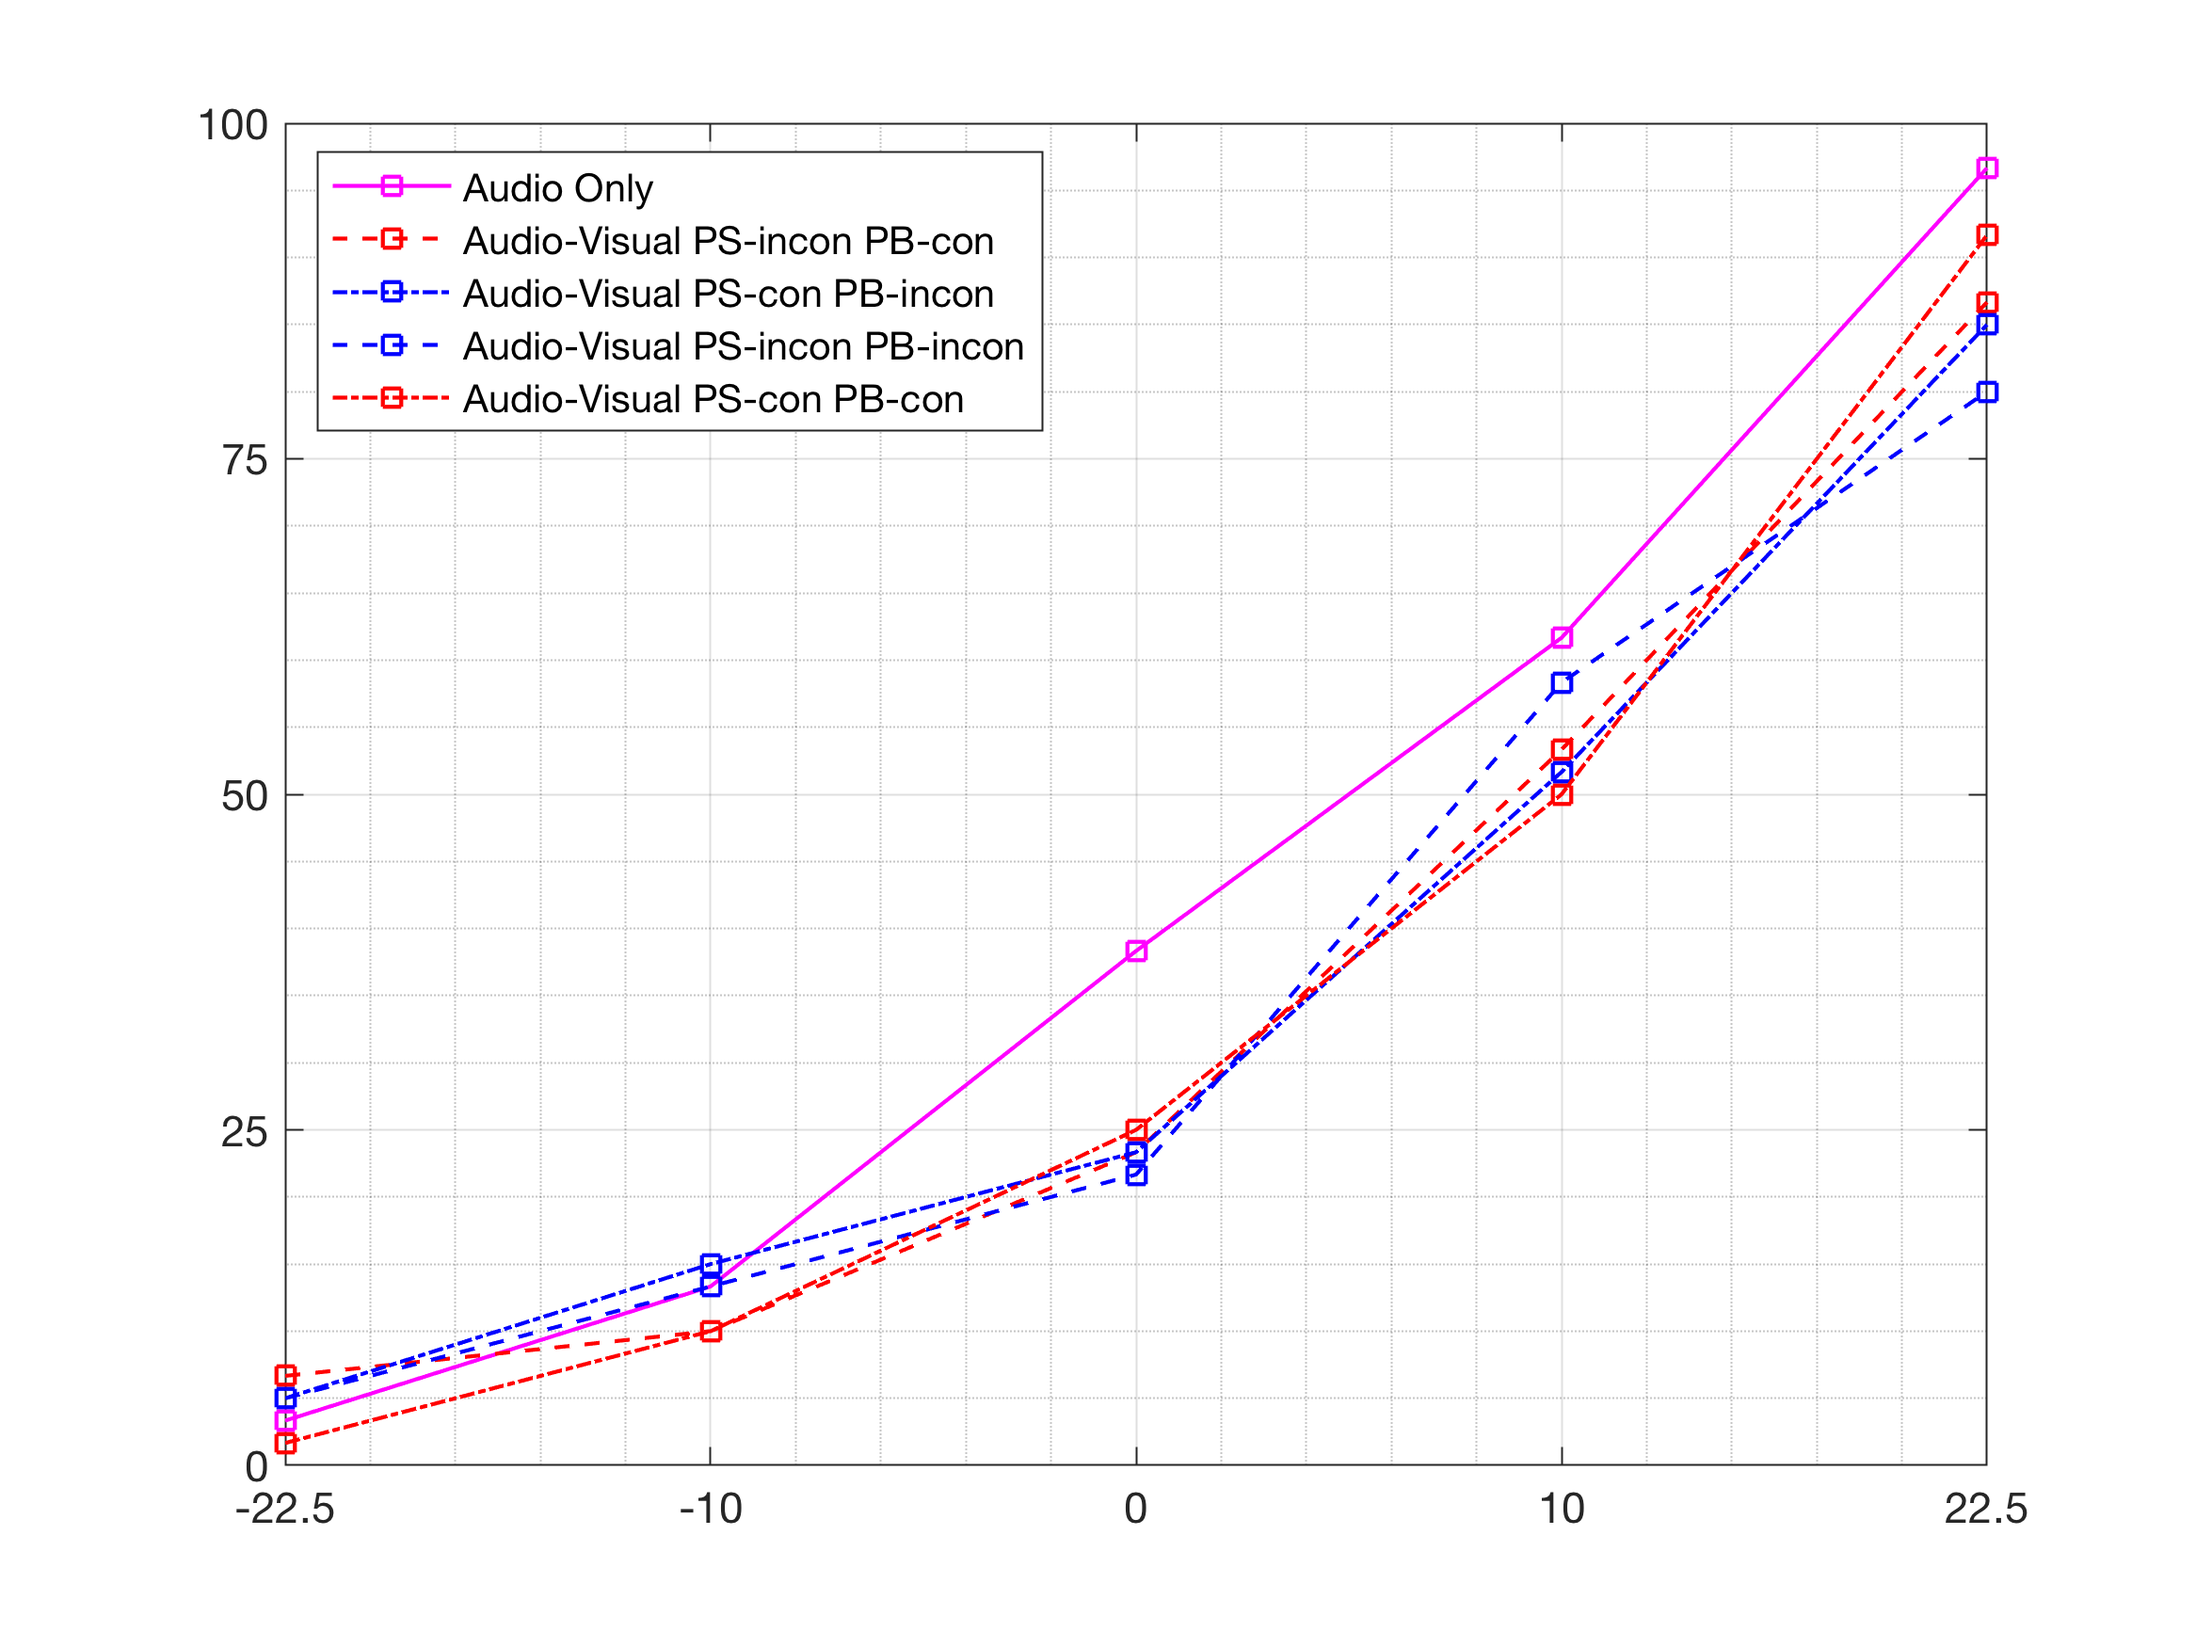
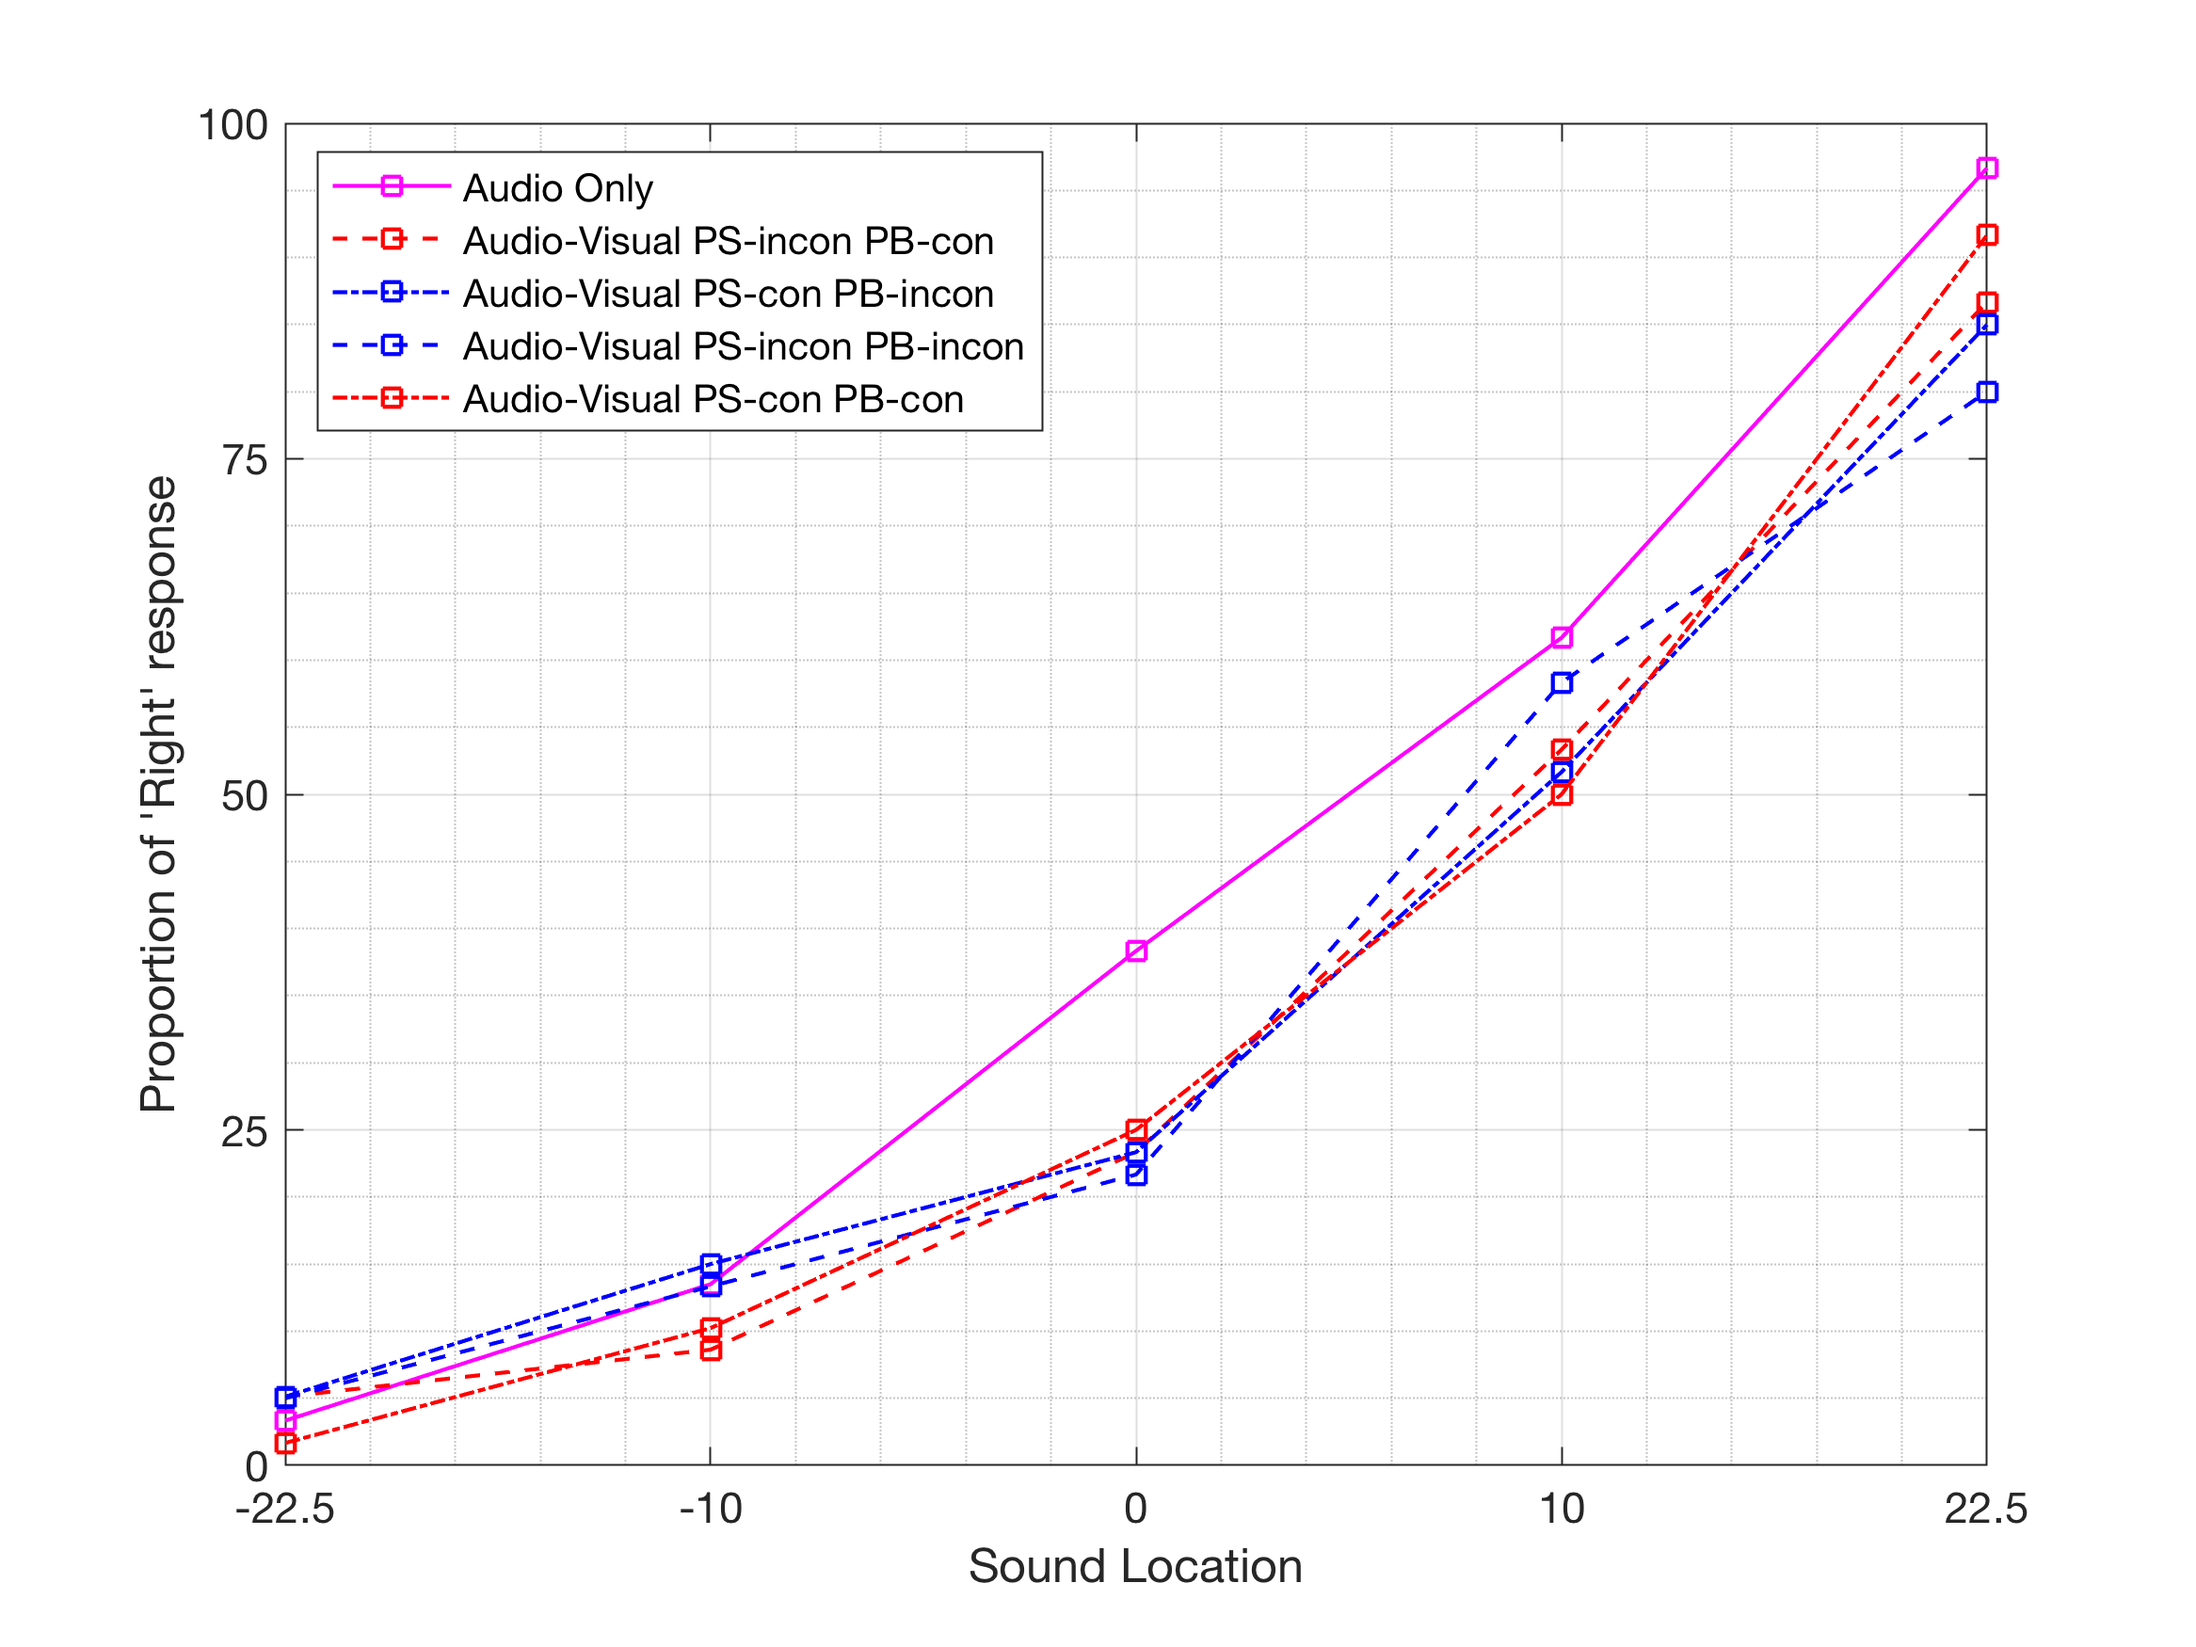
explore data analysis procedure

diff --git a/analyses/single_subj_analyses.m b/analyses/single_subj_analyses.m
@@ -13,8 +13,9 @@ rootDir = '/Volumes/Data/Project/mri_data/';
 rawDataFile = kb_ls(fullfile(rootDir, 'subj_000', 'behv','*.csv'));
 rawData = readtable(rawDataFile{1});
 %% group data
-target_data = rawData(:,{'visual_size', 'visual_brightness', 'audio_pitch','audio_location','button'});
+target_data = rawData(:,{'visual_size', 'visual_brightness', 'audio_pitch','audio_location','button','RT'});
 target_data.button = target_data.button - 1;
+target_data = target_data(target_data.RT <= 1000,:);
 statarray = grpstats(target_data,{'visual_size', 'visual_brightness', 'audio_pitch','audio_location'},{'mean','gname'});
 condition_data = array2table(table2array(table([cellfun(@str2num,statarray.gname),statarray.mean_button*100])));
 condition_data.Properties.VariableNames={'vs','vb','ap','al','right_respon'};
@@ -64,8 +65,9 @@ p = plot(temp_plot_data);
 legend('Audio Only','Audio-Visual PS-incon PB-con','Audio-Visual PS-con PB-incon','Audio-Visual PS-incon PB-incon','Audio-Visual PS-con PB-con','Location','northwest');
 xticks([1,2,3,4,5])
 xticklabels({'-22.5','-10','0','10','22.5'});
-yticks([0,25,50,75,100])
-
+xlabel('Sound Location');
+yticks([0,25,50,75,100]);
+ylabel('Proportion of ''Right'' response');
 p(1).LineWidth = 1;
 p(1).LineStyle = '-';
 p(1).Color = 'm';
@@ -107,7 +109,9 @@ grid minor
 legend('Audio Only - High Pitch','Audio Only - Low Pitch','Location','northwest');
 xticks([1,2,3,4,5])
 xticklabels({'-22.5','-10','0','10','22.5'});
-yticks([0,25,50,75,100])
+xlabel('Sound Location');
+yticks([0,25,50,75,100]);
+ylabel('Proportion of ''Right'' response');
 
 p_debug(1).LineWidth = 1;
 p_debug(1).LineStyle = '-';
@@ -153,3 +157,26 @@ legend('Left Channel','Right Channel','Location','northeast');
 print('snd_high_low_pitch_check','-dpng','-r300')
 close all
 %}
+%% explore
+p_explore = plot(temp_data);
+grid on
+grid minor
+
+legend('Audio Only - High Pitch','Audio Only - Low Pitch','Big Size - High Brightness - High Pitch','Big Size - High Brightness - Low Pitch','Big Size - Low Brightness - High Pitch','Big Size - Low Brightness - Low Pitch','Small Size - High Brightness - High Pitch','Small Size - High Brightness - Low Pitch','Small Size - Low Brightness - High Pitch','Small Size - Low Brightness - Low Pitch','Location','northwest');
+xticks([1,2,3,4,5])
+xticklabels({'-22.5','-10','0','10','22.5'});
+xlabel('Sound Location');
+yticks([0,25,50,75,100]);
+ylabel('Proportion of ''Right'' response');
+p_explore(1).LineWidth = 3;
+p_explore(1).LineStyle = '-.';
+p_explore(1).Color = [46,139,87]./255;
+p_explore(1).Marker = '*';
+
+p_explore(2).LineWidth = 3;
+p_explore(2).LineStyle = '-.';
+p_explore(2).Color = 'r';
+p_explore(2).Marker = '*';
+
+print('explore_check','-dpng','-r300')
+close all
